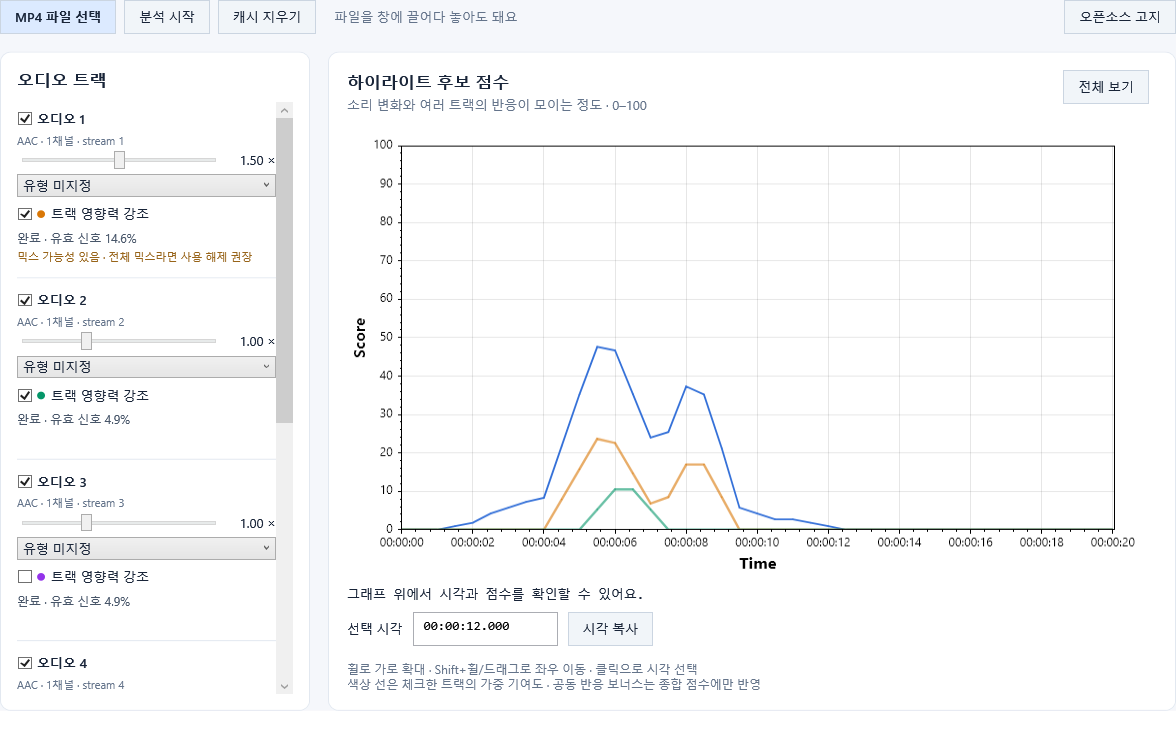
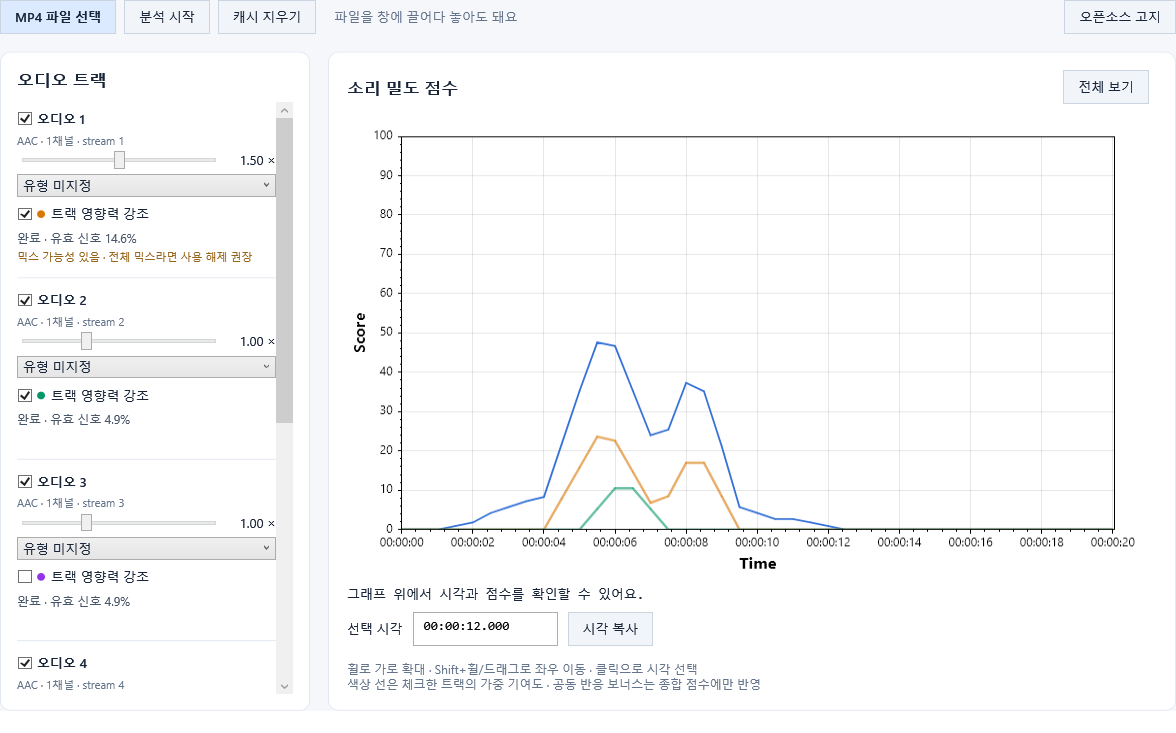
Simplify score chart heading for 0.2.0

diff --git a/src/SoundWeightGraph.App/MainWindow.xaml b/src/SoundWeightGraph.App/MainWindow.xaml
@@ -49,7 +49,7 @@
    <Border Grid.Column="2" Background="White" CornerRadius="10" BorderBrush="#E2E8F0" BorderThickness="1" Padding="18">
     <Grid>
      <Grid.RowDefinitions><RowDefinition Height="Auto"/><RowDefinition Height="*"/><RowDefinition Height="Auto"/><RowDefinition Height="Auto"/></Grid.RowDefinitions>
-     <Grid><StackPanel><TextBlock Text="하이라이트 후보 점수" FontSize="17" FontWeight="SemiBold"/><TextBlock Text="소리 변화와 여러 트랙의 반응이 모이는 정도 · 0–100" Foreground="#64748B" Margin="0,5,0,0"/></StackPanel><Button Content="전체 보기" HorizontalAlignment="Right" VerticalAlignment="Top" Click="FitPlot"/></Grid>
+     <Grid><TextBlock Text="소리 밀도 점수" FontSize="17" FontWeight="SemiBold" VerticalAlignment="Center"/><Button Content="전체 보기" HorizontalAlignment="Right" VerticalAlignment="Top" Click="FitPlot"/></Grid>
      <sp:WpfPlot x:Name="Chart" Grid.Row="1" Margin="0,18,0,10" PreviewMouseMove="PlotMouseMove" PreviewMouseLeftButtonDown="PlotMouseDown" PreviewMouseLeftButtonUp="PlotMouseUp"/>
      <StackPanel Grid.Row="2"><TextBlock Text="{Binding Cursor}" FontFamily="Consolas, Malgun Gothic"/><StackPanel Orientation="Horizontal" Margin="0,10,0,0"><TextBlock Text="선택 시각" VerticalAlignment="Center" Margin="0,0,10,0"/><TextBox Text="{Binding SelectedTime, Mode=OneWay}" IsReadOnly="True" Width="145" Padding="8,6" FontFamily="Consolas"/><Button Content="시각 복사" Click="CopyTime" Margin="10,0,0,0"/></StackPanel></StackPanel>
      <TextBlock Grid.Row="3" Text="휠로 가로 확대 · Shift+휠/드래그로 좌우 이동 · 클릭으로 시각 선택&#10;색상 선은 체크한 트랙의 가중 기여도 · 공동 반응 보너스는 종합 점수에만 반영" TextWrapping="Wrap" Foreground="#64748B" FontSize="12" Margin="0,16,0,0"/>

diff --git a/docs/VALIDATION.md b/docs/VALIDATION.md
@@ -117,3 +117,9 @@ v0.1.0은 아래 확인된 범위로 제공한다. 위 환경·성능 항목의 
 - 종속 라이브러리와 내장 FFmpeg 버전은 v0.1.0과 동일하며 27개 원문 고지 해시를 재검증했다.
 - 원본 결과: `artifacts/test-results/release-0.2.0.trx`, `artifacts/release-0.2.0-smoke.json`, `artifacts/release-0.2.0-smoke.png`.
 - 최종 EXE: `artifacts/release-0.2.0/SoundWeightGraph.exe`. 해시/크기는 `artifacts/release-manifest.json` 및 릴리스 `SHA256SUMS.txt`에 기록한다.
+
+## v0.2.0 제목 패치
+
+- 그래프 제목을 `소리 밀도 점수`로 변경하고 바로 아래 부제목을 제거했다.
+- 점수 계산 변경 없이 v0.2.0의 실행 파일과 체크섬을 교체한다. README 미리보기도 새 화면으로 갱신했다.
+- 빌드 경고 0, 오류 0 및 기존 GUI 검사 통과. 결과: `artifacts/score-title-smoke.json`.
